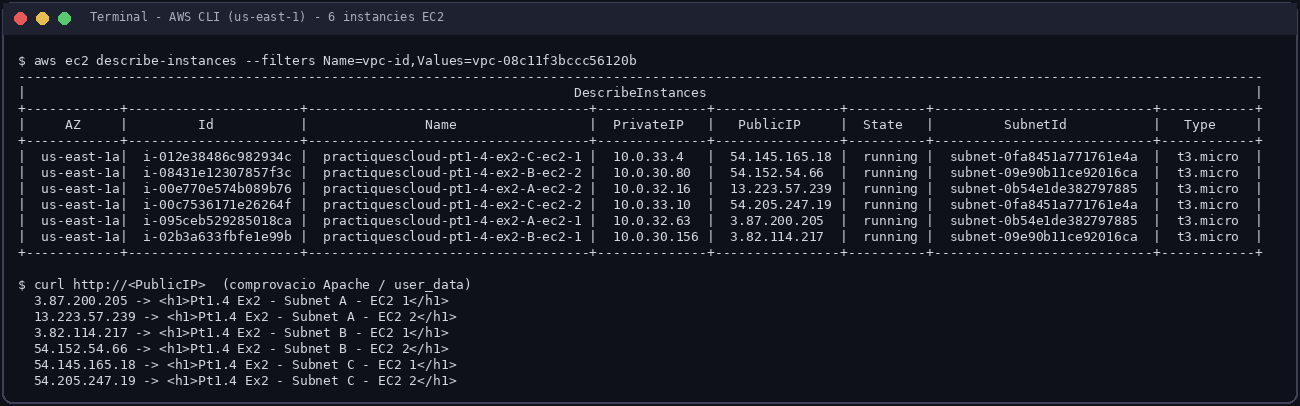
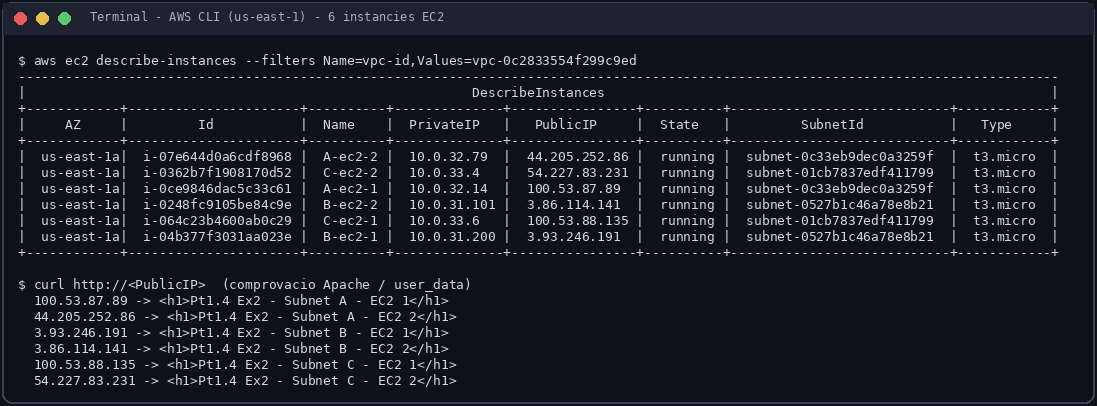
refactor: separar variables en variables.tf (ex1 i ex2) i simplificar noms dels recursos a AWS (A-ec2-1, vpc, subnet-A, sg)

diff --git a/pt1-4-ex2/README.md b/pt1-4-ex2/README.md
@@ -137,27 +137,27 @@ terraform destroy -auto-approve
 
 ### Resultat obtingut en aquest desplegament
 
-**VPC:** `vpc-08c11f3bccc56120b` (`10.0.0.0/16`, `us-east-1`)
+**VPC:** `vpc-0c2833554f299c9ed` (`10.0.0.0/16`, `us-east-1`)
 
 | Subxarxa | ID | CIDR | AZ | IPs disponibles |
 |---|---|---|---|---|
-| A | `subnet-0b54e1de382797885` | `10.0.32.0/25` | `us-east-1a` | 121 |
-| B | `subnet-09e90b11ce92016ca` | `10.0.30.0/23` | `us-east-1a` | 505 |
-| C | `subnet-0fa8451a771761e4a` | `10.0.33.0/28` | `us-east-1a` | 9 |
+| A | `subnet-0c33eb9dec0a3259f` | `10.0.32.0/25` | `us-east-1a` | 121 |
+| B | `subnet-0527b1c46a78e8b21` | `10.0.30.0/23` | `us-east-1a` | 505 |
+| C | `subnet-01cb7837edf411799` | `10.0.33.0/28` | `us-east-1a` | 9 |
 
-**Internet Gateway:** `igw-02da920c12d7d8275` · **Taula de rutes:** `rtb-09fb5103a61852057`
-(`0.0.0.0/0 → igw-02da920c12d7d8275`)
+**Internet Gateway:** `igw-0e861bc5eb876c572` · **Taula de rutes:** `rtb-0171701ba6faf46a0`
+(`0.0.0.0/0 → igw-0e861bc5eb876c572`)
 
 **6 instàncies EC2 en execució:**
 
 | Nom | ID | Subxarxa | IP privada | IP pública |
 |---|---|---|---|---|
-| `...-A-ec2-1` | `i-095ceb529285018ca` | A | `10.0.32.63` | `3.87.200.205` |
-| `...-A-ec2-2` | `i-00e770e574b089b76` | A | `10.0.32.16` | `13.223.57.239` |
-| `...-B-ec2-1` | `i-02b3a633fbfe1e99b` | B | `10.0.30.156` | `3.82.114.217` |
-| `...-B-ec2-2` | `i-08431e12307857f3c` | B | `10.0.30.80` | `54.152.54.66` |
-| `...-C-ec2-1` | `i-012e38486c982934c` | C | `10.0.33.4` | `54.145.165.18` |
-| `...-C-ec2-2` | `i-00c7536171e26264f` | C | `10.0.33.10` | `54.205.247.19` |
+| `A-ec2-1` | `i-0ce9846dac5c33c61` | A | `10.0.32.14` | `100.53.87.89` |
+| `A-ec2-2` | `i-07e644d0a6cdf8968` | A | `10.0.32.79` | `44.205.252.86` |
+| `B-ec2-1` | `i-04b377f3031aa023e` | B | `10.0.31.200` | `3.93.246.191` |
+| `B-ec2-2` | `i-0248fc9105be84c9e` | B | `10.0.31.101` | `3.86.114.141` |
+| `C-ec2-1` | `i-064c23b4600ab0c29` | C | `10.0.33.6` | `100.53.88.135` |
+| `C-ec2-2` | `i-0362b7f1908170d52` | C | `10.0.33.4` | `54.227.83.231` |
 
 S'ha comprovat l'accés HTTP a les 6 màquines amb `curl`, obtenint la pàgina servida per
 Apache a cadascuna (`Pt1.4 Ex2 - Subnet X - EC2 Y`).

diff --git a/pt1-4-ex1/README.md b/pt1-4-ex1/README.md
@@ -151,18 +151,18 @@ private_ips  = ["172.31.x.x", "172.31.x.x"]
 
 | Recurs | ID | Tipus | AZ | IP privada | IP pública |
 |---|---|---|---|---|---|
-| `practiquescloud-pt1-4-ex1-ec2-1` | `i-017b8dde013461720` | `t3.micro` | `us-east-1a` | `172.31.93.120` | `18.234.198.154` |
-| `practiquescloud-pt1-4-ex1-ec2-2` | `i-0e76ece4f6ad0d514` | `t3.micro` | `us-east-1a` | `172.31.88.240` | `54.226.98.36` |
+| `ec2-1` | `i-02269a6085132931a` | `t3.micro` | `us-east-1a` | `172.31.88.56` | `54.152.65.102` |
+| `ec2-2` | `i-0717078af58b1e630` | `t3.micro` | `us-east-1a` | `172.31.87.37` | `98.94.40.192` |
 
 AMI Amazon Linux 2023 utilitzada: `ami-04b938437b69a2c9c`.
 
 Comprovació HTTP de les dues instàncies:
 
 ```text
-$ curl http://18.234.198.154
+$ curl http://54.152.65.102
 <h1>Pt1.4 Exercici 1 - EC2 1 (t3.micro)</h1>
 
-$ curl http://54.226.98.36
+$ curl http://98.94.40.192
 <h1>Pt1.4 Exercici 1 - EC2 2 (t3.micro)</h1>
 ```
 
